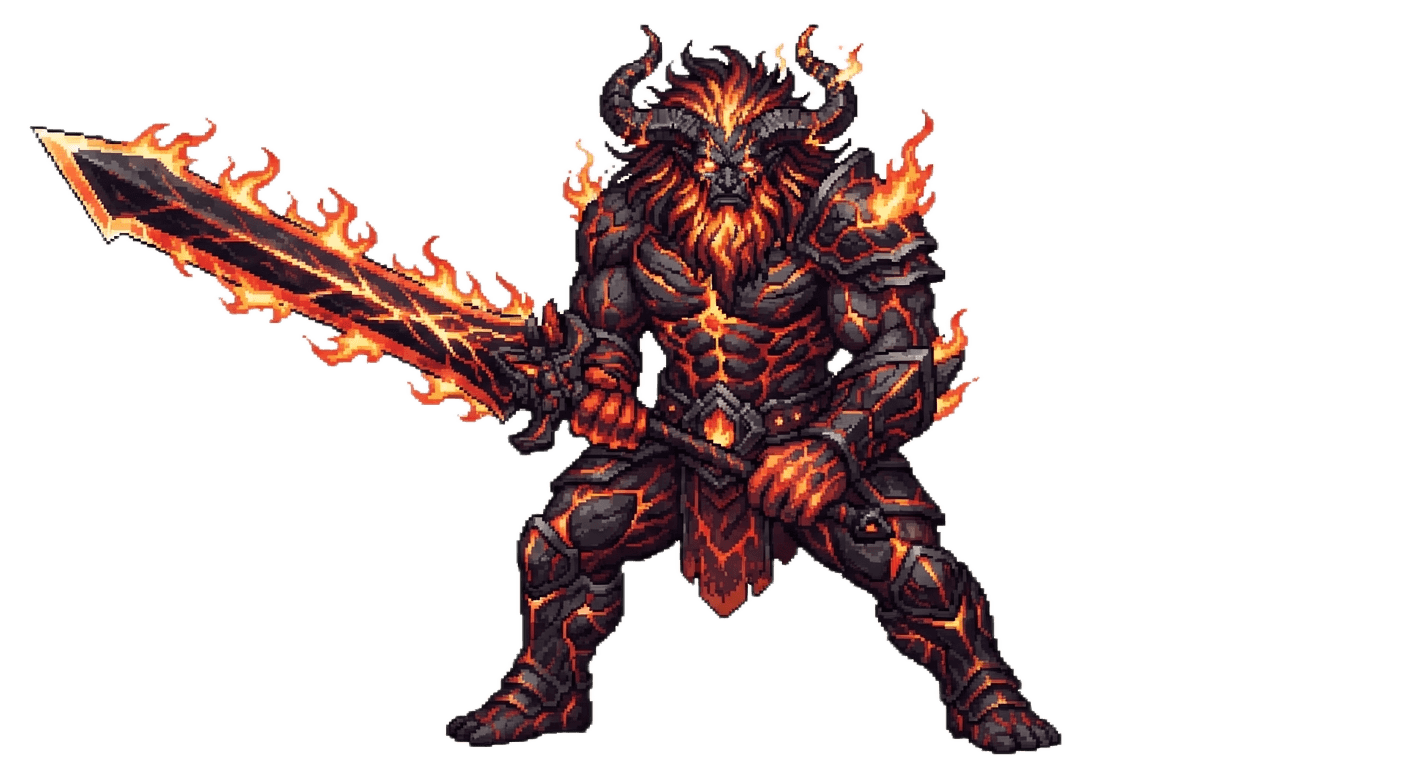
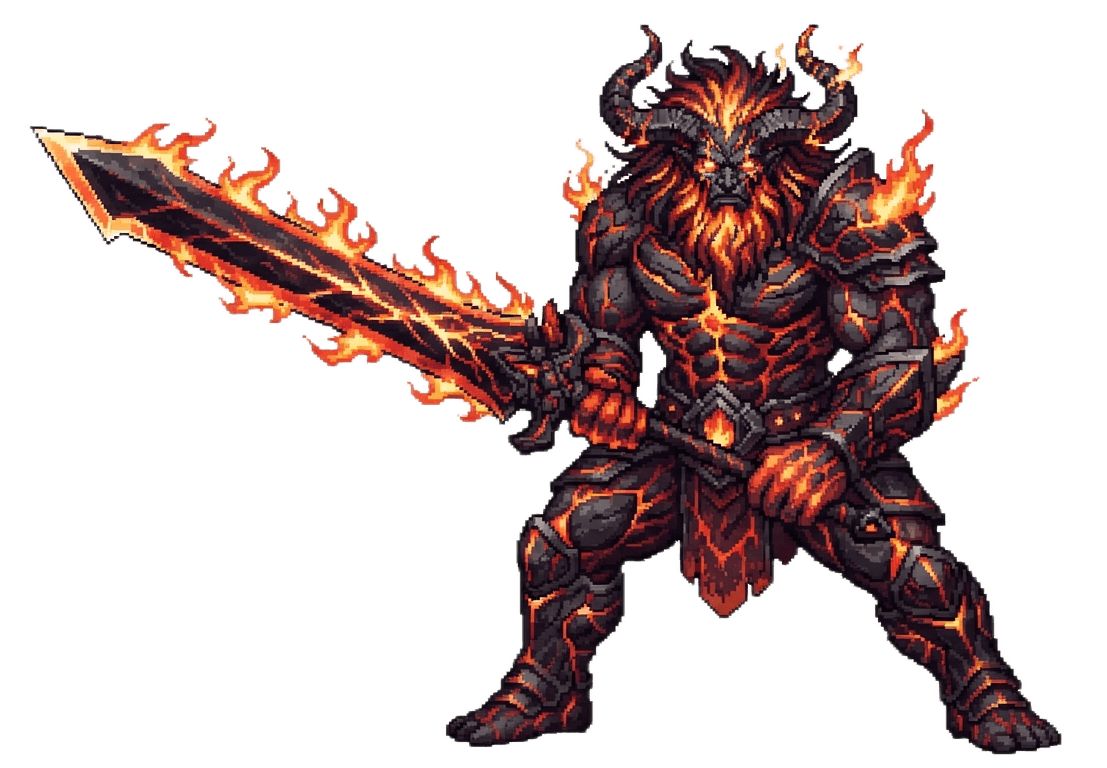
Recorta sprites con margen excesivo y muestra cristales en el resumen
- 24 sprites de criatura (casi todos jefes, más chispa_raro/duende_epico
  y raro/ragnar_legendario/thor_raro) tenían mucho margen transparente
  alrededor del personaje (hasta el 40% de relleno en guardianbosque.png)
  — como creatureCanvas pone el mismo ancho fijo a todos los sprites, el
  personaje quedaba visualmente pequeño en combate. Recortados a su
  recuadro real de contenido con un margen del 4%, sin tocar el arte en
  sí, solo el espacio transparente sobrante.
- Los cristales de invocación que caen al ganar un combate ya se sumaban
  a las monedas, pero el resumen de "¡Victoria!" nunca los mostraba —
  solo el objeto de equipo. Añadidas sus líneas al resumen.

Claude-Session: https://claude.ai/code/session_01WGc1nBHYXG8wYqh9mMefTY

diff --git a/js/ui.js b/js/ui.js
@@ -2761,7 +2761,16 @@ UI.endBattle = function (view, result) {
       html += `<div class="stat-row"><span>🪙 Texel</span><span>+${outcome.rewards.texel}</span></div>`;
       if (outcome.rewards.fighterXp) html += `<div class="stat-row"><span>⭐ XP por luchador</span><span>+${outcome.rewards.fighterXp}</span></div>`;
       if (outcome.gemas) html += `<div class="stat-row"><span>💎 Gemas</span><span>+${outcome.gemas}</span></div>`;
-      if (outcome.rewards.drops && outcome.rewards.drops.gear) html += `<div class="stat-row"><span>🎁 Objeto</span><span>${gearTypeInfo(outcome.rewards.drops.gear).names[outcome.rewards.drops.gear.rarity]}</span></div>`;
+      if (outcome.rewards.drops) {
+        // Los cristales de invocación (pixite/voxite/doxite) ya se sumaban a
+        // state.currencies al ganar, pero nunca se mostraban aquí — el
+        // jugador los veía subir en la topbar sin saber de dónde salían.
+        ['pixite', 'voxite', 'doxite'].forEach(type => {
+          const amount = outcome.rewards.drops[type];
+          if (amount) html += `<div class="stat-row"><span>${CRYSTALS[type].icon} ${CRYSTALS[type].label}</span><span>+${amount}</span></div>`;
+        });
+        if (outcome.rewards.drops.gear) html += `<div class="stat-row"><span>🎁 Objeto</span><span>${gearTypeInfo(outcome.rewards.drops.gear).names[outcome.rewards.drops.gear.rarity]}</span></div>`;
+      }
     }
     if (outcome && outcome.leveled && outcome.leveled.length) html += `<p class="settings-info">¡Subieron de nivel!: ${outcome.leveled.join(', ')}</p>`;
     if (outcome && outcome.unlockedZone) html += `<p class="settings-info">🗺 ¡Nueva zona desbloqueada: ${outcome.unlockedZone.name}!</p>`;

diff --git a/index.html b/index.html
@@ -16,7 +16,7 @@
 <link rel="preconnect" href="https://fonts.googleapis.com">
 <link rel="preconnect" href="https://fonts.gstatic.com" crossorigin>
 <link href="https://fonts.googleapis.com/css2?family=Press+Start+2P&family=VT323&display=swap" rel="stylesheet">
-<link rel="stylesheet" href="css/style.css?v=20260902d">
+<link rel="stylesheet" href="css/style.css?v=20260902e">
 </head>
 <body>
 <div id="app">
@@ -275,11 +275,11 @@
 
 <div id="toastContainer"></div>
 
-<script src="js/data.js?v=20260902d"></script>
-<script src="js/sprite.js?v=20260902d"></script>
-<script src="js/state.js?v=20260902d"></script>
-<script src="js/combat.js?v=20260902d"></script>
-<script src="js/ui.js?v=20260902d"></script>
-<script src="js/main.js?v=20260902d"></script>
+<script src="js/data.js?v=20260902e"></script>
+<script src="js/sprite.js?v=20260902e"></script>
+<script src="js/state.js?v=20260902e"></script>
+<script src="js/combat.js?v=20260902e"></script>
+<script src="js/ui.js?v=20260902e"></script>
+<script src="js/main.js?v=20260902e"></script>
 </body>
 </html>

diff --git a/TODO.md b/TODO.md
@@ -1677,6 +1677,36 @@ Cinco puntos más, con capturas de pantalla reales del usuario jugando:
     Verificado con Playwright los 3 estados (banda nueva con huecos vacíos
     y sin sueltos → aviso de Invocar; con un luchador suelto sin colocar →
     aviso de tocar el hueco; los 9 huecos llenos → aviso oculto).
+  - [x] **Arreglados: sprite de jefe pequeño en combate, y cristales de
+    invocación invisibles en el resumen de victoria**, a reporte del
+    usuario (captura del Guardián del Bosque muy pequeño junto a las 3
+    criaturas del jugador).
+    - **Sprites pequeños**: no era un bug de código — `creatureCanvas`
+      pone el mismo ancho fijo (76px en combate) a TODOS los sprites, así
+      que si la imagen tiene mucho margen transparente alrededor del
+      personaje, el propio personaje ocupa menos de ese ancho. Se
+      comprobó con Python/PIL el `bbox` (recuadro real del contenido no
+      transparente) de los 468 sprites de criatura: **24 tenían menos del
+      75% de relleno** en algún eje — casi todos jefes con el lienzo
+      panorámico 1408×768 sin recortar de cerca (`guardianbosque.png`
+      solo llenaba el 40% del ancho), más un puñado de personajes sueltos
+      (`chispa_raro`, `duende_epico/raro`, `ragnar_legendario`,
+      `thor_raro`). Se recortaron los 24 a su recuadro real con un margen
+      del 4% (sin regenerar ni tocar el contenido, solo recorte del
+      espacio transparente sobrante) — quedan entre 86-98% de relleno,
+      igual que el resto del roster.
+    - **Cristales invisibles en el resumen**: sí era un bug real. Los
+      cristales de invocación (pixite/voxite/doxite) que caen al ganar un
+      combate (jefe de zona, etapa normal, Mazmorra Elemental) SÍ se
+      sumaban a `state.currencies` — pero el HTML de "¡Victoria!" en
+      `UI.endBattle` solo mostraba el objeto de equipo (`🎁 Objeto`), nunca
+      los cristales, así que subían en la topbar sin que el jugador supiera
+      de dónde salían. Añadidas sus líneas al resumen
+      (`⚪/🟢/🟡 Cristal X +N`), igual que ya se hacía con el equipo.
+    Verificado con Playwright: los 24 sprites recortados abren sin error y
+    ahora rellenan 86-98% de su lienzo (antes 26-77%); y un combate ganado
+    con drop de cristal (jefe de zona) muestra "⚪ Cristal Voxite +1" en el
+    resumen de la pantalla de victoria.
 
 ## Notas
 
